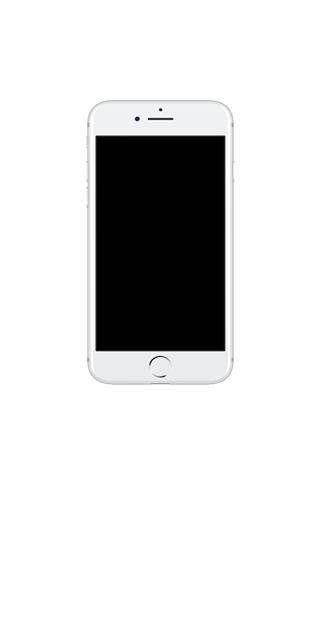
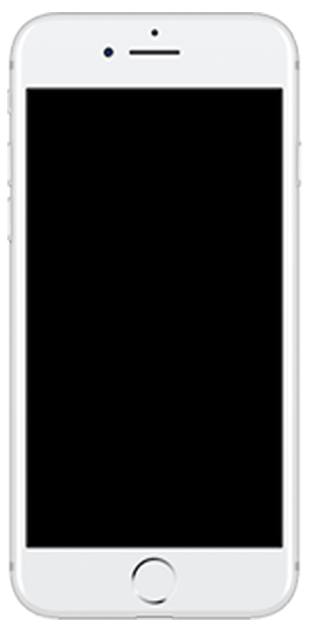
trabalhei no projeto das redes sociais

diff --git a/estilo.css b/estilo.css
@@ -5,12 +5,25 @@
 }
 html,body{
     height: 100vh;
-    width: 100vh;
-    background-color: rgb(16, 16, 16);
+    width: 100vw;
+    background-color: black;
+}
+body{
+    background: url(../projeto-redes-socias-/pacote-d013/imagens/fundo-madeira.jpg) no-repeat top center;
+    background-size: cover;
+    background-attachment: fixed;
+
 }
 main{
-    height:100vh;
-    width: 100vh;
     position: relative;
-    background-color: aqua;
+    height: 100vh;
+}
+section#telefone{
+    position: absolute;
+    top: 50%;
+    left: 50%;
+    transform: translate(-50%,-50%);
+    height: 627px;
+    width: 310px;
+    background: url(../projeto-redes-socias-/pacote-d013/imagens/frame-iphone.png)no-repeat;
 }
